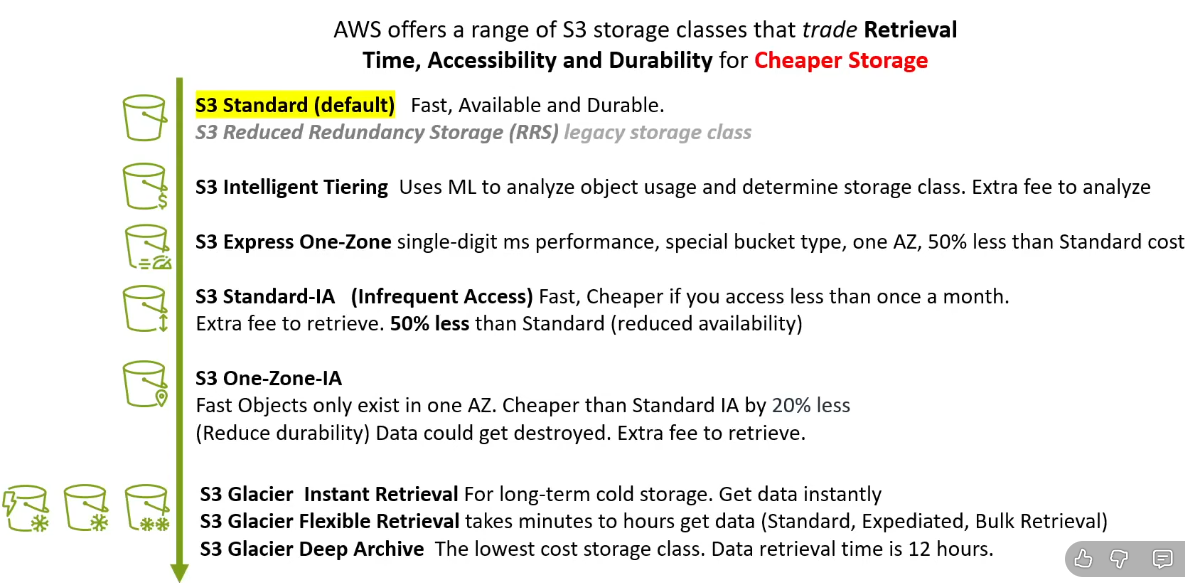
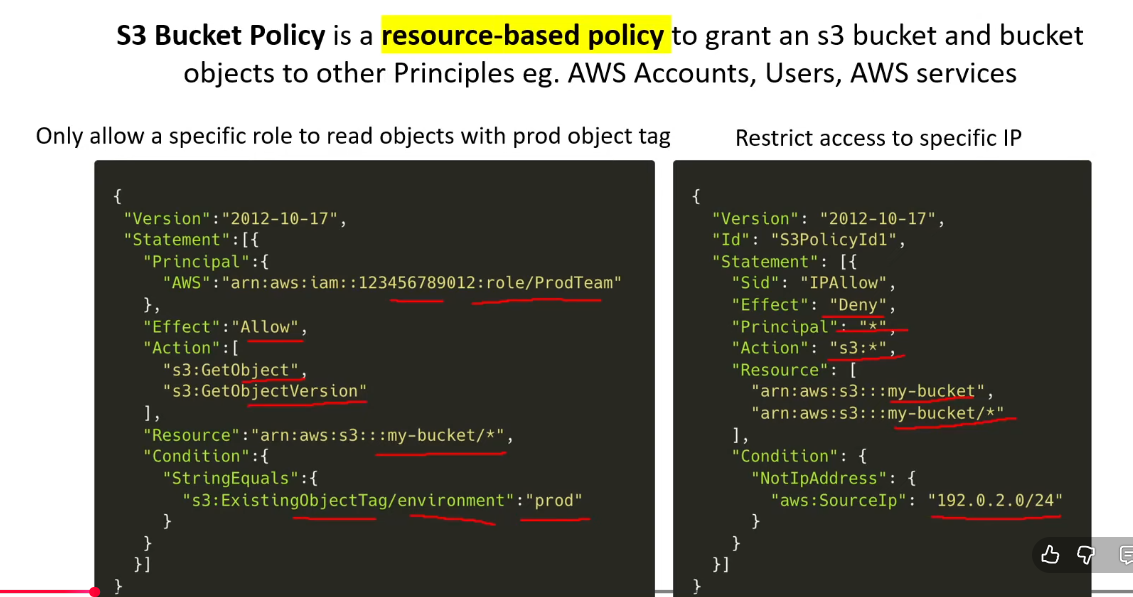
AWS architect pro

diff --git a/AWS/professional-architect/S3.md b/AWS/professional-architect/S3.md
@@ -232,26 +232,75 @@ so Standard storage class is most expensive and glacier depp archive is least ex
 | **BlockPublicPolicy** | Blocks **public bucket policies** from being created |
 | **RestrictPublicBuckets** | Restricts access when a **public bucket policy exists**, so public bucket polilcy will get ignored and overriden by this setting|
 
-
-### 1. Bucket policy
 ### 2. Access Control List (ACL)
 - legacy, they are like bucket polcies (but very limited capability) was used before bucket polices were introduced
 - it **allows other AWS accounts to access S3 buckets from your account**
 - you cannot grant permissions to user in your own account, using this feature
 
+### 3. Bucket policy  
+![alt text](../PNG/ps31.PNG "Title")  
+- IMP thing to note is after adding principal account's ARN / User ARN, the access is granted, as opposed to if we do STS or instead of a particula user, we need to give access to a particular IAM role from different account access to bucket, then we need to do STS thing, and do assumeRole
+- Not needed in this case
 
 ### 3. AWS Private Link
+- Private link is VPC Interface endpoint (note that is it not VPC Gateway endpoint)
 ### 4. CORS
+- we know
 
-### 6. IAM Access Analyzer
+### 6. IAM Access Analyzer for S3
+![alt text](../PNG/ps32.PNG "Title")  
+- so if you attach a bucket policy where action is allow, and principal is *, then this make a bucket publicly available, and IAM access analyzer will notice it
 
 ### 7. Internetwork Traffic Privacy
+- this is nothing but transmitting data via a private network and not via public network
+- achieved via VPC Interface Endpoints (aka Private link), or achieved via VPC Gateway endpoints
+
 ### 8. Access Points
 ### 9. Access Grants
+- Lets us **map users/groups from an identity provider** (like IAM center, Active Directory, Okta) to access S3 data  
+
 ### 10. Versioning
 ### 11. MFA Delete
 ### 12. Object tagging
 ### 13. In-Transit Encryption
 ### 14. Server Side and Client Side Encryption
+- Encryption is transit is achieved via TLS / SSL
+- Encrytion at rest is done via client side encryption and server side encryption
+
+**Note -** You can have different encryption types for different objects in the **same S3 bucket**.
+
+#### Client side Encryption
+- when we don't trust AWS to not see plain data
+- strict security / compliance req. from your company to not send sensitive data to cloud before encrypting
+
+#### Server side encryption
+##### 1. Server side encryption (SSE3)
+- free, default
+- AWS manages key rotation automatically
+- 
+
+##### 2. Server side encryption with KMS service (SSE-KMS)
+- you use KMS keys to encrypt data, so first create keys in KMS
+- this is not free, need to pay price for using KMS keys
+- KMS will handle key rotation
+- if this is not free, why should we use this and not use SSE3, which is free and default
+- SSE-KMS provides granular access, like we can specify which users can access the keys, so if user can't access keys, then they cannot encrypt using the KMS keys
+- another reason to choose SSEKMS or SSE-S3, is auditing, because now we know who used keys and when using cloudtrail
+- again another reason - if company policy require to use **customer-controlled encryption keys**
+
+
+##### 3. Server side encryption with customer managed key (SSE-C)
+- free, but customer has to provide the key
+- so additinal maintenance of storing Keys securly, rotating now becomes customer's job
+- why choose over SSE-S3
+- 1. compliance requirement to manage key at customer side
+- why choose over SSE-KMS
+- 1. free
+- why choose SSE-KMS over SSE-C, when SSE-C is free
+- 1. using SSE-KMS, we don't need to manages key maintenance like key storage, rotation
+
+##### 4. DDSE-KMS
+- Dual layer server side encryption. Encryption done first at client side, then at server side
+
 ### 15. Compliance Validation
 ### 16. Infra Security
